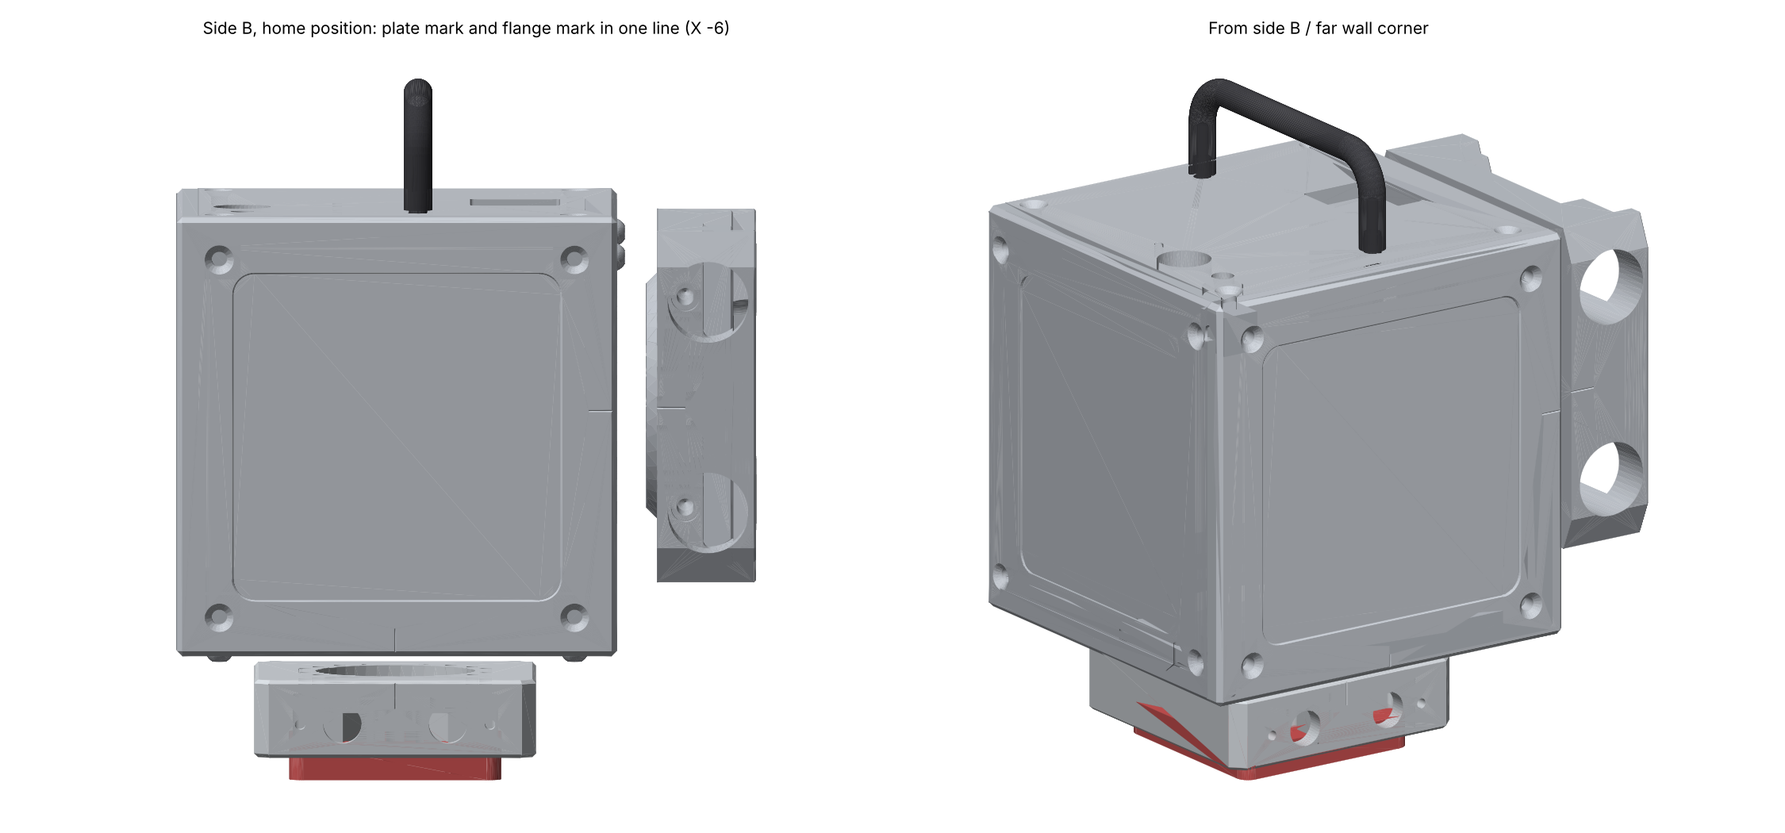
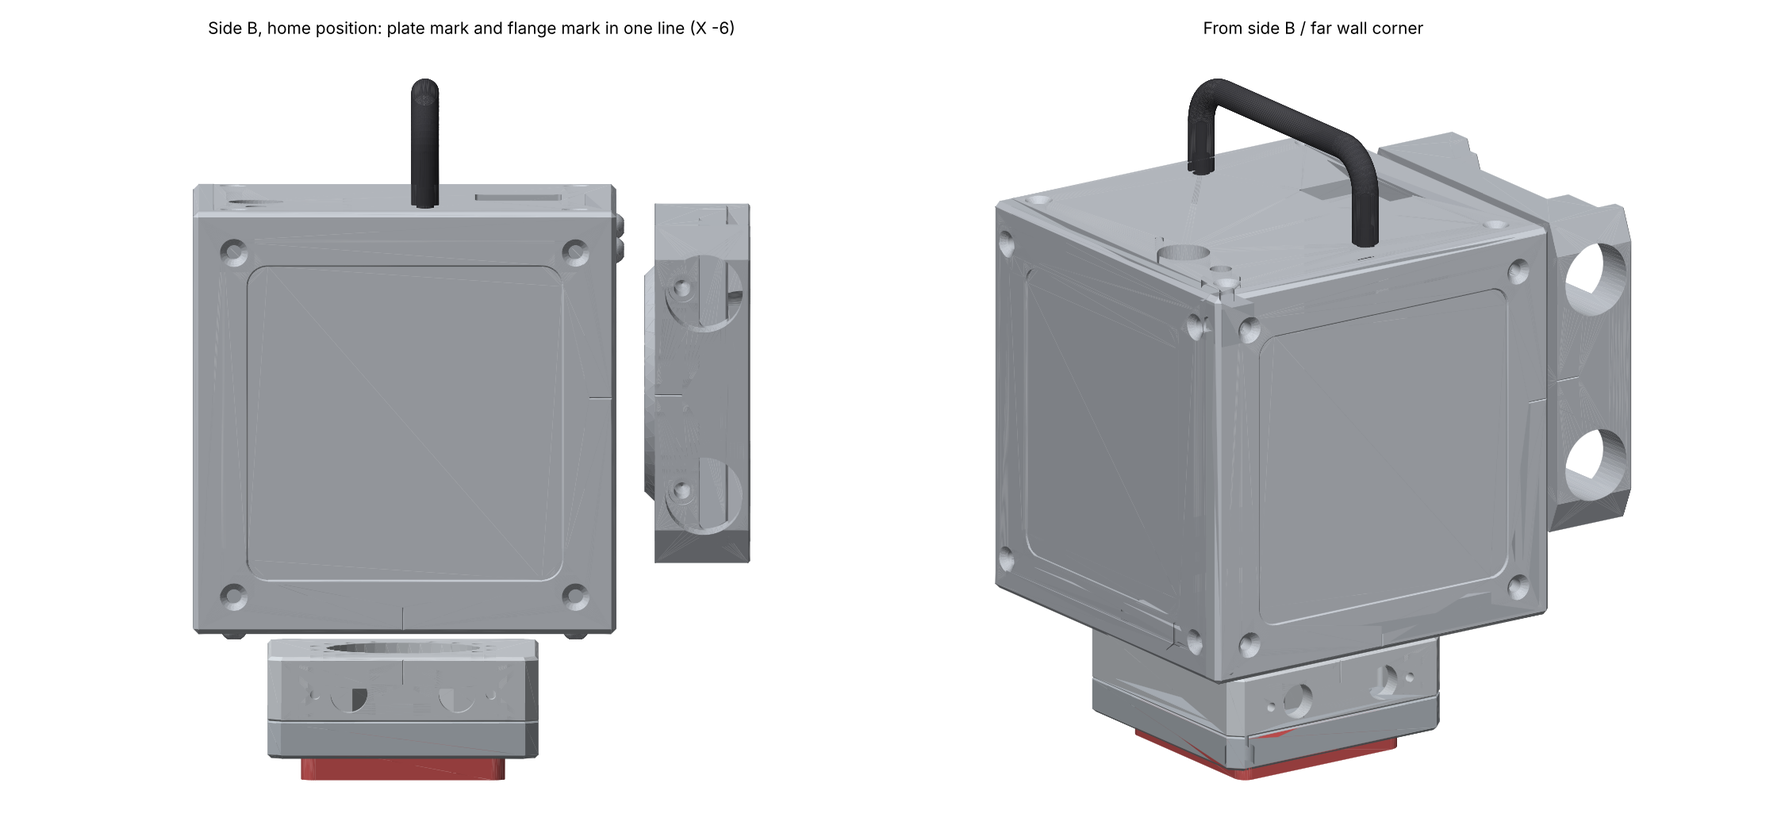
Base plate v2.2 + flange flat bottom with corner M5; README
Base plate bolts down into the LA-40B corner threads; flange bolts to it with 4 x M5 from below at the corners. Jacks moved to X +-16 / Z -19.5, LEDs to +-26. CAD files are outside git (snapshot zips).

Claude-Session: https://claude.ai/code/session_01WaEEuV2oGMjTbg23TAwYVL

diff --git a/restyle/v2.2/tools/v22_base_plate.py b/restyle/v2.2/tools/v22_base_plate.py
@@ -1,0 +1,67 @@
+"""v2.2 base flange (flat bottom, corner M5) + base plate. Assembly coords; RA axis at X -6.
+Rel coords below = offset from the RA axis; helper P(x,y) adds -6."""
+import sys, math; sys.path.insert(0,'.')
+exec(open('build_flange.py').read().split("K=solids(load")[0])
+from OCP.BRepFilletAPI import BRepFilletAPI_MakeChamfer
+from OCP.BRepPrimAPI import BRepPrimAPI_MakeCone
+from OCP.BRep import BRep_Builder
+from OCP.TopoDS import TopoDS_Shape
+def rd(f):
+    s=TopoDS_Shape(); BRepTools.Read_s(s,f,BRep_Builder()); return s
+X0=-6.0
+def cylr(x,y,z,r,h,d=(0,0,1)): return cyl(X0+x,y,z,r,h,d)
+def boxr(x0,x1,y0,y1,z0,z1): return box(X0+x0,X0+x1,y0,y1,z0,z1)
+def outer_edge_chamfer(shape,z,dist):
+    mk=BRepFilletAPI_MakeChamfer(shape); e=TopExp_Explorer(shape,TopAbs_EDGE); n=0
+    while e.More():
+        ed=TopoDS.Edge(e.Current()); b=bb(ed)
+        if abs(b[2]-z)<1e-6 and abs(b[5]-z)<1e-6:
+            pts=[(b[0]-X0,b[1]),(b[3]-X0,b[4])]
+            if min(max(abs(px),abs(py)) for px,py in pts)>35.9: mk.Add(dist,ed); n+=1
+        e.Next()
+    return mk.Shape() if n else shape
+ZB=-27.5                                   # flange bottom = base plate top
+# ---------------- flange ----------------
+F=solids(rd('flange80.brep'))[0]; v0=vol(F)
+F=BRepAlgoAPI_Common(F,boxr(-50,50,-50,50,ZB,-8.0)).Shape()                  # drop the recess skirt -> flat bottom
+for x,y in ((0,17.5),(0,-17.5),(17.5,0),(-17.5,0)):                          # old LA-40B M6 holes filled
+    F=fuse(F,cylr(x,y,ZB,2.55,9.1))
+F=fuse(F,cut(cut(boxr(-29.7,29.7,21.3,40.0,ZB,-13.3),cylr(0,0,-17.5,22.8,10)),cylr(0,0,-22.5,13.1,5.0)))                               # clear the old side-B layout (refilled, re-cut below)
+ZJ,XJ,XL=-19.5,16.0,26.0                                                      # jacks up 1.5 / out 1: bezel stays above the split line
+cuts=[]
+for s in (-1,1):
+    x0,x1=sorted((s*9.5,s*28.0)); cuts.append(vertical_fillets(boxr(x0,x1,21.5,35.0,ZB-0.1,-17.5),1.5,lambda b:True))
+    x0,x1=sorted((s*10.0,s*28.0)); cuts.append(vertical_fillets(boxr(x0,x1,22.0,35.0,-17.6,-12.5),1.5,lambda b:True))
+    cuts.append(cylr(s*XJ,34.0,ZJ,5.5,6.2,(0,1,0)))                              # M12 tapped (Ø11 tap drill), 5 mm wall
+    cuts.append(cylr(s*XL,34.0,ZJ,1.55,6.2,(0,1,0)))                             # LED Ø3.1
+    a=(s*12.5,23.0); b2=(s*5.6,11.6); dx,dy=b2[0]-a[0],b2[1]-a[1]; L=math.hypot(dx,dy); nx,ny=-dy/L*3,dx/L*3
+    cuts.append(prism([(X0+a[0]+nx,a[1]+ny,ZB),(X0+b2[0]+nx,b2[1]+ny,ZB),(X0+b2[0]-nx,b2[1]-ny,ZB),(X0+a[0]-nx,a[1]-ny,ZB)],(0,0,8.5)))
+cuts.append(prism([(X0-0.3,40.01,-16.5),(X0+0.3,40.01,-16.5),(X0,39.7,-16.5)],(0,0,8.2)))   # home mark
+for x in (-33,33):
+    for y in (-33,33): cuts.append(cylr(x,y,ZB-0.1,2.1,12.1))                 # M5 tap drill Ø4.2, 12 deep (10 thread)
+for c in cuts: F=cut(F,c)
+F=outer_edge_chamfer(unify(F),ZB,0.5)
+print('flange valid',BRepCheck_Analyzer(F).IsValid(),'solids',len(solids(F)),'mass %.0f g'%(vol(F)*2.7e-3),'(was %.0f)'%(v0*2.7e-3))
+# ---------------- base plate ----------------
+H=40; C=4; Z0=-38.5
+P=prism([(X0-H+C,-H,Z0),(X0+H-C,-H,Z0),(X0+H,-H+C,Z0),(X0+H,H-C,Z0),(X0+H-C,H,Z0),(X0-H+C,H,Z0),(X0-H,H-C,Z0),(X0-H,-H+C,Z0)],(0,0,ZB-Z0))
+P=outer_edge_chamfer(P,Z0,1.0); P=outer_edge_chamfer(P,ZB,0.5)
+cuts=[vertical_fillets(boxr(-30.1,30.1,-30.1,30.1,Z0-0.1,Z0+3.0),4.1,lambda b:True)]    # LA-40B plate recess (ASSUMED 60 x 60)
+for x in (-19,19):
+    for y in (-19,19):                                                        # countersunk M6 down into the LA-40B corner threads
+        cuts.append(cylr(x,y,Z0-0.1,3.3,12))
+        cone=BRepPrimAPI_MakeCone(gp_Ax2(gp_Pnt(X0+x,y,ZB-3.0),gp_Dir(0,0,1)),3.2,6.3,3.1).Shape(); cuts.append(cone)
+for x in (-33,33):
+    for y in (-33,33):
+        cuts.append(cylr(x,y,Z0-0.1,2.75,12))                                 # M5 clearance Ø5.5
+        cuts.append(cylr(x,y,Z0-0.1,4.5,5.6))                                 # counterbore Ø9 x 5.5 from below
+for c in cuts: P=cut(P,c)
+P=unify(P)
+print('plate valid',BRepCheck_Analyzer(P).IsValid(),'solids',len(solids(P)),'mass %.0f g'%(vol(P)*2.7e-3),fbb(P))
+BRepTools.Write_s(F,'flange_v22b.brep'); BRepTools.Write_s(P,'plate_v22.brep')
+# envelopes: jacks (unchanged position), LEDs at 25, screws
+from OCP.TopoDS import TopoDS_Compound
+bld=BRep_Builder(); comp=TopoDS_Compound(); bld.MakeCompound(comp)
+for s in (-1,1):
+    for e_ in (cylr(s*16,40.0,-19.5,7.5,1.0,(0,1,0)),cylr(s*16,41.0,-19.5,7.0,2.0,(0,1,0)),cylr(s*16,31.0,-19.5,6.0,9.0,(0,1,0)),cylr(s*16,22.0,-19.5,6.0,9.0,(0,1,0)),cylr(s*26,32.0,-19.5,1.5,9.0,(0,1,0))): bld.Add(comp,e_)
+BRepTools.Write_s(comp,'jack_env_b.brep')

diff --git a/restyle/v2.2/tools/v22_base_plate_checks.py b/restyle/v2.2/tools/v22_base_plate_checks.py
@@ -1,0 +1,38 @@
+import sys, math; sys.path.insert(0,'.')
+exec(open('env.py').read().split("FL=solids")[0])
+from OCP.BRepClass3d import BRepClass3d_SolidClassifier
+from OCP.gp import gp_Pnt, gp_Trsf, gp_Vec
+from OCP.TopAbs import TopAbs_IN
+from OCP.BRepBuilderAPI import BRepBuilderAPI_Transform
+F=solids(rd('flange_v22b.brep'))[0]; P=solids(rd('plate_v22.brep'))[0]; ENV=solids(rd('jack_env_b.brep'))
+S=solids(rd('ra_solids.brep')); stock={43,48,39,10,11,23,30,204}
+ov=[(k,round(vol(BRepAlgoAPI_Common(F,s).Shape()),2)) for k,s in enumerate(S) if k not in stock]
+print('flange vs RA drive overlaps:',[o for o in ov if o[1]>1e-3])
+print('plate vs flange overlap %.3f mm3'%vol(BRepAlgoAPI_Common(F,P).Shape()))
+print('plate vs RA drive min gap %.2f'%min(BRepExtrema_DistShapeShape(P,s).Value() for k,s in enumerate(S) if k not in stock))
+names=['ring','bezel','thread','body','led']*2
+for n,e in zip(names,ENV):
+    v=vol(BRepAlgoAPI_Common(F,e).Shape())
+    if n!='thread' and v>0.2: print('  env',n,'in flange %.2f'%v)
+print('jack/LED vs plate min gap %.2f'%min(BRepExtrema_DistShapeShape(e,P).Value() for e in ENV))
+print('jack/LED vs RA min gap %.2f'%min(BRepExtrema_DistShapeShape(e,s).Value() for e in ENV for k,s in enumerate(S) if k not in stock))
+PH=load("/mnt/user-data/uploads/HEMY/restyle/base-concept/PLACEHOLDER - LA-40B top plate (assumed 60x60x10).step")
+t=gp_Trsf(); t.SetTranslation(gp_Vec(-6,0,-8)); PH=BRepBuilderAPI_Transform(PH,t,True).Shape()
+print('placeholder (moved -8) vs plate overlap %.3f'%vol(BRepAlgoAPI_Common(PH,P).Shape()), fbb(PH))
+BRepTools.Write_s(PH,'placeholder_v22b.brep')
+def mat(Sh,x,y,z): return BRepClass3d_SolidClassifier(Sh,gp_Pnt(x-6,y,z),1e-6).State()==TopAbs_IN
+def wall(Sh,p,q,n=600):
+    runs=[];run=0;prev=None
+    for i in range(n+1):
+        t=i/n; pt=[p[k]+(q[k]-p[k])*t for k in range(3)]; m=mat(Sh,*pt)
+        if m: run+=1
+        elif run: runs.append(run); run=0
+    if run: runs.append(run)
+    L=math.dist(p,q); return [round(r*L/n,2) for r in runs]
+print('flange: corner M5 -> side-B bay (runs along X at Y 30, Z -24):', wall(F,(33,30,-24),(26,30,-24)))
+print('flange: upper bay -> top pocket (Z -15):', wall(F,(9.2,21.0,-15),(5,17,-15)), ' roof:', wall(F,(16,28,-12.6),(16,28,-8.4)), ' bay floor gone below bay? split', wall(F,(16,28,-27.4),(16,28,-25)))
+print('flange: corner M5 -> side face / chamfer:', wall(F,(33,33,-24),(41,33,-24)), wall(F,(33,33,-24),(39,39,-24)))
+print('plate: M5 counterbore -> recess wall (Z -37):', wall(P,(33,33,-37),(27,27,-37)))
+print('plate: M5 hole -> side face (Z -30):', wall(P,(33,33,-30),(41,33,-30)))
+print('plate: floor above recess (at 0,0):', wall(P,(0,0,-38.6),(0,0,-27.4)), ' at countersink (19,19):', wall(P,(19,19,-38.6),(19,19,-27.4)))
+print('plate: countersink -> recess-corner region ok; countersink -> M5 cbore:', wall(P,(19,19,-34),(33,33,-34)))

diff --git a/restyle/v2.2/tools/v22_base_regroup.py b/restyle/v2.2/tools/v22_base_regroup.py
@@ -47,10 +47,11 @@ print('old RA label removed:',st.RemoveShape(ra_ref,True))
 make_part('RA drive (reducer, motor, belt)',keep,[colour_of(s) for s in keep])
 def rd(f):
     s=TopoDS_Shape(); BRepTools.Read_s(s,f,BRep_Builder()); return s
-fl=solids(rd('flange80.brep'))[0]
-make_part('BASE flange v2.2 80x80 (10 A jacks + home mark on side B; LA-40B plate ASSUMED)',[fl],whole=Quantity_Color(0.80,0.82,0.85,Quantity_TypeOfColor.Quantity_TOC_RGB))
-ph=load("/mnt/user-data/uploads/HEMY/restyle/base-concept/PLACEHOLDER - LA-40B top plate (assumed 60x60x10).step")
-t=gp_Trsf(); t.SetTranslation(gp_Vec(-6,0,0)); ph=BRepBuilderAPI_Transform(ph,t,True).Shape()
+fl=solids(rd('flange_v22b.brep'))[0]
+make_part('BASE flange v2.2 80x80 (flat bottom, 4 x M5 corner threads; 10 A jacks + home mark on side B)',[fl],whole=Quantity_Color(0.80,0.82,0.85,Quantity_TypeOfColor.Quantity_TOC_RGB))
+ph=rd('placeholder_v22b.brep')
+pl=solids(rd('plate_v22.brep'))[0]
+make_part('BASE plate v2.2 80x80 (countersunk M6 into the LA-40B corner threads; LA-40B plate recess ASSUMED)',[pl],whole=Quantity_Color(0.74,0.77,0.80,Quantity_TypeOfColor.Quantity_TOC_RGB))
 make_part('PLACEHOLDER LA-40B top plate (assumed 60 x 60 x 10, measure the real one)',solids(ph),whole=Quantity_Color(0.85,0.25,0.25,Quantity_TypeOfColor.Quantity_TOC_RGB))
 # stock A11 + Vixen saddle + DC jack dropped (replaced by the base flange)
 st.UpdateAssemblies()
@@ -59,5 +60,5 @@ w=STEPCAFControl_Writer(); w.SetNameMode(True); w.SetColorMode(True)
 w.Transfer(doc,STEPControl_AsIs); print('write',w.Write(sys.argv[2]))
 # standalone part files (assembly coordinates)
 from OCP.STEPControl import STEPControl_Writer
-for shp,fn in ((fl,sys.argv[3]),(ph,sys.argv[4])):
+for shp,fn in ((fl,sys.argv[3]),(ph,sys.argv[4]),(pl,sys.argv[5])):
     ww=STEPControl_Writer(); ww.Transfer(shp,STEPControl_AsIs); print(fn,ww.Write(fn))

diff --git a/restyle/v2.2/README.md b/restyle/v2.2/README.md
@@ -24,7 +24,7 @@ Current design (as of 2026-11-07). A HEMY v2 harmonic mount in a 125 mm cube she
 | `tools/` | The OCP scripts that made the edits, run on the Mac with `cadquery-ocp`. Records only; already run. Scripts made before the cleanup still point at the old v2.1 paths. |
 | `logo/` | 80 mm side logo, two-colour vinyl layers (red accent); **HEMY 2R GPS sticker print file** (gear version + credit line, locked); **side-plate logo for laser marking** (`HEMY_2R_sideplate_logo_LASER_70mm.svg`, 70 × 50.4 mm, black = marked) + preview (both generated by `tools/make_logo.py`); **side plate A owner badge** (`Avinash_badge_LASER_70mm_600dpi.png`) + preview. |
 | `reference/` | Not machined: `PLACEHOLDER - LA-40B top plate (assumed 60x60x10).step` (replace with the measured plate). |
-| `docs/` | Render (v2.1 era), serial-link diagram, base flange views (`base_flange_v22_views.png`, `base_flange_v22_in_assembly.png`). |
+| `docs/` | Render (v2.1 era), serial-link diagram, base views (`base_flange_plate_views.png`, `base_flange_v22_in_assembly.png`), `base_plate_concept.png` (the Nov-11 sketch). |
 
 ## 2. Parts to machine (`parts/`)
 | Part | Qty | Notes |
@@ -40,7 +40,8 @@ Current design (as of 2026-11-07). A HEMY v2 harmonic mount in a 125 mm cube she
 | 08 Brake support | 2 | Unchanged; fitted from day one (section 7). |
 | stock_hemy_parts 10 Motor support | 2 | Unchanged. |
 | stock_hemy_parts 11 Dovetail fix clamp | 2 | Unchanged. |
-| **HEMY2R - Base flange v2.2 80x80 (LA-40B plate ASSUMED)** | 1 | 80 × 80 × 22 mm, ~259 g; side B jacks are **tapped M12 (pitch to confirm, likely M12 × 1)**, needs the thread drawing; replaces the A11 flange and the Vixen saddle (section 3). Bolts to the RA reducer output with the same 12 × M3 as A11 and sits directly on the LA-40B top plate. Recess and M6 positions wait for the measured plate. |
+| **HEMY2R - Base flange v2.2 80x80** | 1 | 80 × 80 × 19 mm, ~241 g, flat bottom; replaces the A11 flange and the Vixen saddle (section 3). Bolts to the RA reducer output with the same 12 × M3 as A11. Needs the thread drawing: 2 × M12 (jacks, pitch to confirm, likely M12 × 1) and 4 × M5 × 10 at the corners. |
+| **HEMY2R - Base plate v2.2 80x80 (LA-40B recess ASSUMED)** | 1 | 80 × 80 × 11 mm, ~150 g. Bolted down into the LA-40B's corner M6 threads (4 × countersunk); the flange bolts to it with 4 × M5 from below at the corners. Recess waits for the measured LA-40B plate. |
 | stock_hemy_parts 13 SWB-003 shaft coupling | 1 | **Needed**: the 5 × 40 brake shaft has a 4.5 mm flat (hardened, not filed); the brake's own coupling needs 4.0. |
 
 Finish: bead blast + regular anodize, natural/silver, matte. Order note: **break all sharp edges 0.3 mm**.
@@ -52,13 +53,16 @@ Finish: bead blast + regular anodize, natural/silver, matte. Order note: **break
 - **12 mm M4 cubes in all 8 corners**, so every panel and lid screw is M4. Cubes are cheap and sacrificial (a worn thread costs a cube, not a panel) and keep the panels plain 6 mm plates.
 - **Handle kept** (clears the board by 5.2 mm).
 - **GPS window in the lid** at the back-centre (X −40, Y 0), behind the handle grip: one pocket **25.5 × 25.5 × 5 mm (R1)** with a Ø4 lead hole at its inner corner. A **25 × 25 × 4 passive ceramic GPS patch** (U.FL lead to the board's JP1) sits on a **1 mm double-sided foam pad**, so its top is flush with the lid, under the **"HEMY 2R" sticker (locked 2026-11-08: gear version with the credit line "based on HEMY by polvinc", 40 × 32 mm, R3, red #D62A2A with white artwork; `logo/HEMY_2R_GPS_sticker_PRINT.svg`, 1.5 mm bleed, magenta cut line, all text outlined)**, long side along the handle direction, overlapping the pocket 3.25 mm on the sides and 7.25 mm on the ends to seal out dew. **Printed** die-cut vinyl with a laminate, **non-metallic** (no chrome or foil). The lid faces the celestial pole, and the telescope only shades part of its sky; GPS is only needed for the first fix at start-up. The sticker replaces the separate lid banner.
-- **Base flange v2.2, 80 × 80 × 22 mm** (grown from the Nov-2 70 × 70 concept so the 10 A jacks fit; same height, ~259 g): reducer interface copied from A11 (12 × M3 at Ø54, counterbored from below; the empty positions at 0/90/180/270° match the K17 drawing's four larger features); 60.2 × 60.2 × 3 mm recess (R4.1) and 4 × M6 × 9 deep at (±17.5, 0) / (0, ±17.5) from the RA axis for the LA-40B (plate **assumed** 60 × 60 × 10). **Side B face, one row:** LED – **MOUNT** – RA home mark – **ACC** – LED.
-  - **Jacks:** 10 A 5.5 × 2.1 panel sockets (M12 thread 9 mm + body 9 mm, Ø14 bezel, 18 AWG leads, tethered cap), **screwed into tapped M12 holes** in the 5 mm wall (no nut), X ±15 from the axis, Z −21. LEDs Ø3.1 at X ±27.
-  - **Bays** for the jack bodies and LEDs, machined from below (through the skirt on the inside of the face); 5 mm roof. A 6 mm slot from each bay to the Ø26 centre cavity, then up the reducer's **Ø19 H7 through-bore** (K17 drawing).
+- **Base flange v2.2 + base plate (modelled 2026-11-11).** The stack under the cube, top to bottom: **flange 80 × 80 × 19** (Z −27.5…−8.5, ~241 g) → **base plate 80 × 80 × 11** (Z −38.5…−27.5, ~150 g), same outline and chamfers, 0.5 mm chamfers meet in a fine V split line → LA-40B top plate in the plate's recess. ~8 mm taller than the earlier single flange.
+  - **Flange:** reducer interface copied from A11 (12 × M3 at Ø54, counterbored from below; the empty positions at 0/90/180/270° match the K17 drawing's four larger features). Flat bottom; **4 × M5 × 10 threads at the corners** (±33, ±33 from the RA axis). **Side B face, one row:** LED – **MOUNT** – RA home mark – **ACC** – LED.
+  - **Base plate:** 3 mm recess underneath for the LA-40B plate (**assumed** 60 × 60 R4.1); **4 × countersunk M6 down into the LA-40B's corner threads** (±19, ±19), so the LA-40B threads are used as designed (no drilling); 4 × M5 clearance holes with Ø9 × 5.5 counterbores from below at the corners, outside the LA-40B plate, so a hex key reaches them.
+  - **Order:** plate onto the LA-40B (M6 from above) → flange onto the reducer on the bench (12 × M3 from below) → mount onto the plate, 4 × M5 up from below at the corners. Corner screws sit at r ≈ 47 mm: far more leverage against tipping than M6 at 17.5.
+  - **Jacks:** 10 A 5.5 × 2.1 panel sockets (M12 thread 9 mm + body 9 mm, Ø14 bezel, 18 AWG leads, tethered cap), **screwed into tapped M12 holes** in the 5 mm wall (no nut), X ±16 from the axis, Z −19.5 (bezels stay 0.7 mm above the split line). LEDs Ø3.1 at X ±26.
+  - **Bays** for the jack bodies and LEDs, machined from the flange's flat bottom (closed by the base plate); 4 mm roof. A 6 mm slot from each bay to the Ø26 centre cavity, then up the reducer's **Ø19 H7 through-bore** (K17 drawing).
   - Side B is the only face with a screw-free sector wide enough (the far-wall and side-A faces have reducer screws 18° either side); the 18 mm jack depth is why the flange grew to 80 mm.
-  - **Checked:** no clash with any v2.2 RA part (the one 82 mm³ overlap with a small disc inside the reducer pocket is in polvinc's model and the stock A11 has it too); jacks ≥ 2.0 mm from the reducer, 0.5 mm above the (assumed) LA-40B plate; thinnest walls 2.6 mm (reducer screw counterbore) and 3.2 mm (M6 thread).
+  - **Checked:** no clash with any v2.2 RA part (the one 82 mm³ overlap with a small disc inside the reducer pocket is in polvinc's model and the stock A11 has it too); plate ≥ 3 mm from the reducer; jacks ≥ 2.0 mm from the reducer and 0.7 mm above the plate; wire path continuous both sides. Walls: jack bay ↔ reducer pocket 1.9 mm (local), corner M5 ↔ jack bay 5.0 mm, corner M5 ↔ outside 4.2–4.9 mm, plate counterbore ↔ recess wall 1.3 mm (grows if the real LA-40B plate is smaller than 60 × 60).
 - **No TMC5160 driver heatsinks** (not needed at 0.8–0.9 A): ~13 mm above the RA motor instead of 1.2 mm.
-- **Weight:** about 4.6 kg without the base (stock HEMY < 4 kg; the 6 mm shell adds ~0.6 kg), ~5.6 kg with the LA-40B (808 g) and the base flange.
+- **Weight:** about 4.6 kg without the base (stock HEMY < 4 kg; the 6 mm shell adds ~0.6 kg), ~5.8 kg with the LA-40B (808 g), the base flange and the base plate.
 
 ## 4. Optional counterweight cover
 A swappable far wall for using a counterweight; the plain far wall is the everyday cover. HEMY carries 15 kg without one, so this is optional (heavier loads, a piggyback camera, less RA drive torque).
@@ -111,20 +115,15 @@ Flat-heads to match the 90° countersinks: **ISO 14581 (Torx), stainless A2-70**
 - **Brake board fit:** not in the model. It turns with the main board; on paper it now sits at about X 19–34, Y −46…−27, up to Z 115, clear of the switch, the GPS pocket and the corner cube (~4 mm). Check against real geometry (model it or measure on the bench).
 - **Dovetail 12 V (ACC) output:** same 10 A M12 jack as the base (18 mm deep), next to the CH340 USB-C on the dovetail's side A. Not modelled yet; check its depth fits.
 - **Base flange jacks:** confirm the M12 thread pitch on the real jack (nut) and its body length (drawing: 9 + 9 mm, Ø14 bezel) before ordering.
-- **LA-40B top plate** (`reference/LA-40B interface drawing (Angeleyes).png`): 8 × M6 **threaded** on a 38 × 38 grid (corners ±19, sides ±17.5) + ¼-20 centre. With the base plate (section 10) these threads are used as designed: countersunk M6 from above, no drilling. Outline not dimensioned: scaled from the drawing it may be ~54 × 50 mm R4, not the assumed 60 × 60, so the recess waits for measurements: length, width, corner radius, thickness, anything raised on top, long side vs the latitude hinge, and hex-key access to the side holes from below. Base-plate screws into the LA-40B: countersunk M6, length = base plate floor + thread engagement (≤ LA-40B plate thickness); ~5 N·m, blue threadlocker.
+- **LA-40B top plate** (`reference/LA-40B interface drawing (Angeleyes).png`): 8 × M6 **threaded** on a 38 × 38 grid (corners ±19, sides ±17.5) + ¼-20 centre. The base plate uses the 4 corner threads as designed (countersunk M6 from above, no drilling). Outline not dimensioned: scaled from the drawing it may be ~54 × 50 mm R4, not the assumed 60 × 60, so the recess waits for measurements: length, width, corner radius, thickness, anything raised on top, long side vs the latitude hinge. Screws: M6 countersunk (ISO 10642) length = 8 mm plate floor + 6–8 mm into the LA-40B (≤ its plate thickness); M5 × 16 socket heads at the corners; ~5 N·m (M6) / ~3.5 N·m (M5), blue threadlocker. **Check on the real base:** the plate's overhang against the red side cheeks and the pitch-fixing knob through the latitude range (at least 25–50°), and hex-key reach to the 4 corner screws.
 
 ## 10. To do before the CNC order
 - **Version control (set up 2026-11-11):** local branch `hemy2r-restyle` (main stays = upstream). Git tracks scripts, README, artwork, BOMs and drawings; STEP / x_t / PSD / zip are ignored (`restyle/.gitignore`). CAD undo = dated zips in `restyle/_snapshots/` (also ignored), e.g. `2026-11-11_v2.2_cad.zip`; make one before each big CAD change.
 - **Bench-test the dovetail serial link** (CH340 → CN1, StellaVita OnStep driver, pulse guiding). If it fails, add a USB-C window to side plate A, where the board's USB-C now points.
-- **Thread and tolerance drawings:** L-plate (bores Ø80.5 / Ø65 ±0.05, perpendicular axes, existing threads), lid (v2.2 positions), counterweight cover (M12 × 1.75 through; 3 × M5 × 0.8 × 8 deep), base flange (2 × M12 tapped through the 5 mm side-B wall; 4 × M6 × 9 deep; 12 × M3 clearance + counterbore, as A11). Planned for a later stage.
+- **Thread and tolerance drawings:** L-plate (bores Ø80.5 / Ø65 ±0.05, perpendicular axes, existing threads), lid (v2.2 positions), counterweight cover (M12 × 1.75 through; 3 × M5 × 0.8 × 8 deep), base flange (2 × M12 tapped through the 5 mm side-B wall; 4 × M5 × 10 deep at the corners; 12 × M3 clearance + counterbore, as A11), base plate (no threads: 4 × countersink for M6, 4 × Ø5.5 + Ø9 counterbore). Planned for a later stage.
 - **Base flange:** modelled in v2.2 (jacks, LEDs, wiring path, RA home mark). 80 × 80, 10 A jacks. Jack thread pitch still to confirm (section 9).
-- **NEXT: base plate (decided 2026-11-11, to model).** Concept: `docs/base_plate_concept.png`. Solves the LA-40B fixing without drilling, captive screws or knobs, and doesn't depend on access under the LA-40B:
-  - **Base plate** 80 × 80 × ~11 mm, same outline and chamfers as the flange (reads as one block with a fine split line); 3 mm recess underneath for the LA-40B top plate; bolted **down into the LA-40B's own M6 threads** with 4 × countersunk M6 from above (side or corner holes, whichever clears), done first.
-  - **Flange** unchanged except a **flat bottom** (no recess); its 4 × M6 holes go. Instead **4 × M5 at the corners, from below** through the base plate's overhang (outside the LA-40B's ~54 × 50 plate) into threads in the flange corners. Check them against the side-B jack bays and the reducer M3 ring.
-  - Order: plate onto the LA-40B → flange onto the reducer on the bench → mount onto the plate, 4 corner screws from below.
-  - LA-40B (`reference/LA-40B front view (Angeleyes).png`): latitude scale 0–90° with a pointer (range −8…90°), azimuth ±12°. The top plate sits on a narrow black tilt arm, so some plate holes are covered from below (another reason for screwing down from above). **Check:** the base plate's overhang (80 mm over a ~54 mm plate) against the red side cheeks and the pitch-fixing knob through the latitude range (at least 25–50°), and that a hex key reaches the 4 corner screws at some tilt.
-  - ~8 mm taller than the current stack; corner screws at r ≈ 47 mm (vs 17.5) give ~2.7× more leverage against tipping.
-  - Dropped: puck with thumbscrews (protruding knobs, clamp-only), captive screws from below (depends on access), taller chamber flange (~44 mm, side window + spanner).
+- **Base plate: modelled 2026-11-11** (section 3). Concept sketch: `docs/base_plate_concept.png`. Still to do: recess size, screw lengths and the overhang check from the real LA-40B.
+  - Dropped alternatives: puck with thumbscrews (protruding knobs, clamp-only), captive screws from below (depends on access), taller chamber flange (~44 mm, side window + spanner), screwing the reducer through the plate (the LA-40B plate covers those screw heads).
 - **Dovetail CH340 pocket:** fit to the module's exact size and Ø1.6 holes once it arrives.
 - **Dovetail ACC 12 V output jack:** 10 A M12 jack chosen; design its spot beside the CH340 pocket (section 9).
 - **Brake board:** confirm its clearance under the lid (section 9).
